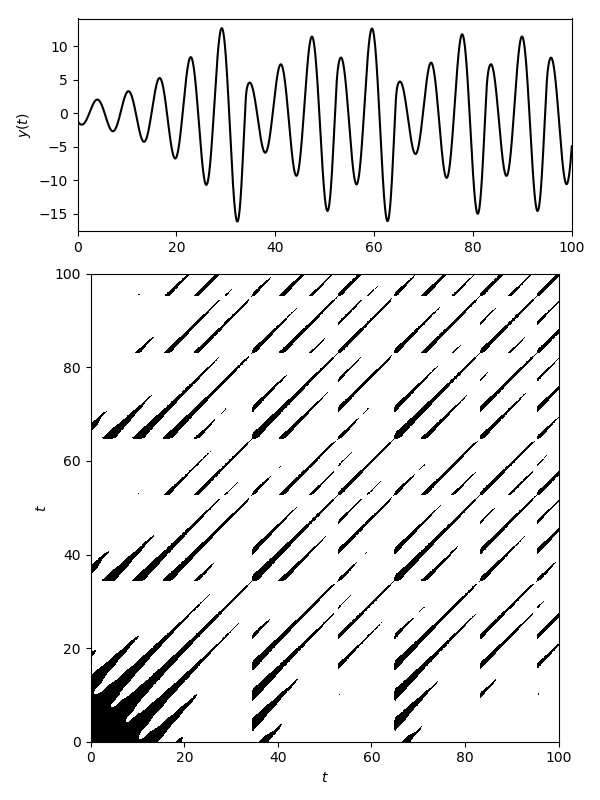
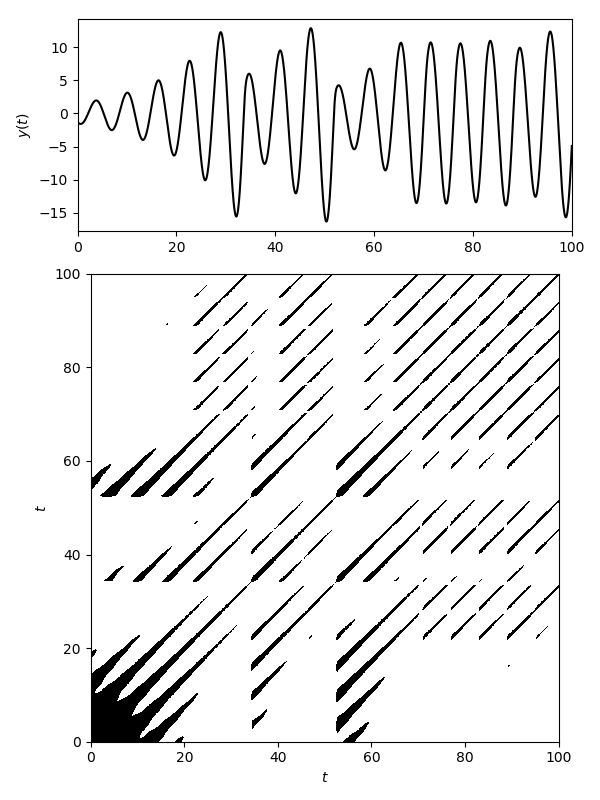
build based on 722a721

diff --git a/dev/rqa/rplots/index.html b/dev/rqa/rplots/index.html
@@ -725,8 +725,8 @@ R(i, j) = \begin{cases}
 \end{cases}
 </script>
 </div>
-<p>where <span><span class="MathJax_Preview">d(x[i], y[j])</span><script type="math/tex">d(x[i], y[j])</script></span> stands for the <em>distance</em> between trajectory <span><span class="MathJax_Preview">x</span><script type="math/tex">x</script></span> at point <span><span class="MathJax_Preview">i</span><script type="math/tex">i</script></span> and trajectory <span><span class="MathJax_Preview">y</span><script type="math/tex">y</script></span> at point <span><span class="MathJax_Preview">j</span><script type="math/tex">j</script></span>. If <span><span class="MathJax_Preview">x\equiv y</span><script type="math/tex">x\equiv y</script></span> then <span><span class="MathJax_Preview">R</span><script type="math/tex">R</script></span> is called recurrence matrix, otherwise it is called cross-recurrence matrix. There is also the joint-recurrence variant, see below.</p>
-<p>With <code>RecurrenceAnalysis</code> you can use the following functions to access these matrices</p>
+<p>where <span><span class="MathJax_Preview">d(x[i], y[j])</span><script type="math/tex">d(x[i], y[j])</script></span> stands for the <em>distance</em> between trajectory <span><span class="MathJax_Preview">x</span><script type="math/tex">x</script></span> at point <span><span class="MathJax_Preview">i</span><script type="math/tex">i</script></span> and trajectory <span><span class="MathJax_Preview">y</span><script type="math/tex">y</script></span> at point <span><span class="MathJax_Preview">j</span><script type="math/tex">j</script></span>. Both <span><span class="MathJax_Preview">x, y</span><script type="math/tex">x, y</script></span> can be single timeseries, full trajectories or embedded timeseries (which are also trajectories).</p>
+<p>If <span><span class="MathJax_Preview">x\equiv y</span><script type="math/tex">x\equiv y</script></span> then <span><span class="MathJax_Preview">R</span><script type="math/tex">R</script></span> is called recurrence matrix, otherwise it is called cross-recurrence matrix. There is also the joint-recurrence variant, see below. With <code>RecurrenceAnalysis</code> you can use the following functions to access these matrices</p>
 <p><a id='RecurrenceAnalysis.RecurrenceMatrix' href='#RecurrenceAnalysis.RecurrenceMatrix'>#</a>
 <strong><code>RecurrenceAnalysis.RecurrenceMatrix</code></strong> &mdash; <em>Type</em>.</p>
 <div class="codehilite"><pre><span></span>RecurrenceMatrix(x, ε; kwargs...)
@@ -766,7 +766,7 @@ R(i, j) = \begin{cases}
 <p>See <a href="./#RecurrenceAnalysis.RecurrenceMatrix"><code>RecurrenceMatrix</code></a> for details, references and keywords. See also: <a href="./#RecurrenceAnalysis.CrossRecurrenceMatrix"><code>CrossRecurrenceMatrix</code></a>.</p>
 <p><a id='Plottable-Format-1'></a></p>
 <h2 id="plottable-format">Plottable Format</h2>
-<p>As you can tell from the above documentation strings, the recurrence matrices are stored as sparse matrices with boolean values. To create the recurrence plots, one needs to obtain a full form out of them.</p>
+<p>The recurrence matrices are internally stored as sparse matrices with boolean values. To create the recurrence plots, one needs to obtain a full form out of them.</p>
 <p>This functionality is supported by the following function:</p>
 <p><a id='RecurrenceAnalysis.recurrenceplot' href='#RecurrenceAnalysis.recurrenceplot'>#</a>
 <strong><code>RecurrenceAnalysis.recurrenceplot</code></strong> &mdash; <em>Function</em>.</p>
@@ -791,16 +791,16 @@ R(i, j) = \begin{cases}
 
 
 <div class="codehilite"><pre><span></span>2001×2001 Array{Float64,2}:
- 1.0  1.0  1.0  1.0  1.0  1.0  1.0  1.0  …  0.0  0.0  0.0  0.0  0.0  0.0  0.0
+ 1.0  1.0  1.0  1.0  1.0  1.0  1.0  1.0  …  1.0  0.0  0.0  0.0  0.0  0.0  0.0
  1.0  1.0  1.0  1.0  1.0  1.0  1.0  1.0     0.0  0.0  0.0  0.0  0.0  0.0  0.0
  1.0  1.0  1.0  1.0  1.0  1.0  1.0  1.0     0.0  0.0  0.0  0.0  0.0  0.0  0.0
  1.0  1.0  1.0  1.0  1.0  1.0  1.0  1.0     0.0  0.0  0.0  0.0  0.0  0.0  0.0
  1.0  1.0  1.0  1.0  1.0  1.0  1.0  1.0     0.0  0.0  0.0  0.0  0.0  0.0  0.0
  1.0  1.0  1.0  1.0  1.0  1.0  1.0  1.0  …  0.0  0.0  0.0  0.0  0.0  0.0  0.0
- 1.0  1.0  1.0  1.0  1.0  1.0  1.0  1.0     0.0  0.0  0.0  0.0  0.0  0.0  0.0
- 1.0  1.0  1.0  1.0  1.0  1.0  1.0  1.0     0.0  0.0  0.0  0.0  0.0  0.0  0.0
- 1.0  1.0  1.0  1.0  1.0  1.0  1.0  1.0     0.0  0.0  0.0  0.0  0.0  0.0  0.0
- 1.0  1.0  1.0  1.0  1.0  1.0  1.0  1.0     0.0  0.0  0.0  0.0  0.0  0.0  0.0
+ 1.0  1.0  1.0  1.0  1.0  1.0  1.0  1.0     0.0  0.0  0.0  0.0  0.0  0.0  1.0
+ 1.0  1.0  1.0  1.0  1.0  1.0  1.0  1.0     0.0  0.0  0.0  0.0  0.0  0.0  1.0
+ 1.0  1.0  1.0  1.0  1.0  1.0  1.0  1.0     0.0  0.0  0.0  0.0  0.0  1.0  1.0
+ 1.0  1.0  1.0  1.0  1.0  1.0  1.0  1.0     0.0  0.0  0.0  0.0  1.0  1.0  1.0
  ⋮                        ⋮              ⋱       ⋮                        ⋮
  0.0  0.0  0.0  0.0  0.0  0.0  0.0  0.0     1.0  1.0  1.0  1.0  1.0  1.0  1.0
  0.0  0.0  0.0  0.0  0.0  0.0  0.0  0.0     1.0  1.0  1.0  1.0  1.0  1.0  1.0
@@ -825,9 +825,26 @@ R(i, j) = \begin{cases}
 
 
 <p><img alt="" src="../rmatrix.png" /></p>
+<p>and here is exactly the same process, but using the embedded trajectory instead</p>
+<div class="codehilite"><pre><span></span><span class="n">y</span> <span class="o">=</span> <span class="n">tr</span><span class="p">[</span><span class="o">:</span><span class="p">,</span> <span class="mi">2</span><span class="p">]</span>
+<span class="n">τ</span> <span class="o">=</span> <span class="n">estimate_delay</span><span class="p">(</span><span class="n">y</span><span class="p">,</span> <span class="s">&quot;first_zero&quot;</span><span class="p">)</span>
+<span class="n">m</span> <span class="o">=</span> <span class="n">reconstruct</span><span class="p">(</span><span class="n">y</span><span class="p">,</span> <span class="mi">2</span><span class="p">,</span> <span class="n">τ</span><span class="p">)</span>
+<span class="n">R</span> <span class="o">=</span> <span class="n">RecurrenceMatrix</span><span class="p">(</span><span class="n">m</span><span class="p">,</span> <span class="mf">5.0</span><span class="p">;</span> <span class="n">metric</span> <span class="o">=</span> <span class="s">&quot;euclidean&quot;</span><span class="p">)</span>
+<span class="n">Rp</span> <span class="o">=</span> <span class="n">recurrenceplot</span><span class="p">(</span><span class="n">R</span><span class="p">)</span>
+<span class="n">figure</span><span class="p">(</span><span class="n">figsize</span> <span class="o">=</span> <span class="p">(</span><span class="mi">6</span><span class="p">,</span> <span class="mi">8</span><span class="p">));</span> <span class="n">ax1</span> <span class="o">=</span> <span class="n">subplot2grid</span><span class="p">((</span><span class="mi">3</span><span class="p">,</span><span class="mi">1</span><span class="p">),</span> <span class="p">(</span><span class="mi">0</span><span class="p">,</span><span class="mi">0</span><span class="p">))</span>
+<span class="n">plot</span><span class="p">(</span><span class="mi">0</span><span class="o">:</span><span class="n">dt</span><span class="o">:</span><span class="n">N</span><span class="o">*</span><span class="n">dt</span><span class="p">,</span> <span class="n">tr</span><span class="p">[</span><span class="o">:</span><span class="p">,</span> <span class="mi">2</span><span class="p">],</span> <span class="s">&quot;k&quot;</span><span class="p">);</span> <span class="n">xlim</span><span class="p">(</span><span class="mi">0</span><span class="p">,</span> <span class="n">N</span><span class="o">*</span><span class="n">dt</span><span class="p">);</span> <span class="n">ylabel</span><span class="p">(</span><span class="s">&quot;</span><span class="se">\$</span><span class="s">y(t)</span><span class="se">\$</span><span class="s">&quot;</span><span class="p">)</span>
+<span class="n">ax2</span> <span class="o">=</span> <span class="n">subplot2grid</span><span class="p">((</span><span class="mi">3</span><span class="p">,</span><span class="mi">1</span><span class="p">),</span> <span class="p">(</span><span class="mi">1</span><span class="p">,</span> <span class="mi">0</span><span class="p">),</span> <span class="n">rowspan</span> <span class="o">=</span> <span class="mi">2</span><span class="p">)</span>
+<span class="n">imshow</span><span class="p">(</span><span class="n">Rp</span><span class="p">,</span> <span class="n">cmap</span> <span class="o">=</span> <span class="s">&quot;Greys_r&quot;</span><span class="p">,</span> <span class="n">extent</span> <span class="o">=</span> <span class="p">(</span><span class="mi">0</span><span class="p">,</span> <span class="n">N</span><span class="o">*</span><span class="n">dt</span><span class="p">,</span> <span class="mi">0</span><span class="p">,</span> <span class="n">N</span><span class="o">*</span><span class="n">dt</span><span class="p">))</span>
+<span class="n">xlabel</span><span class="p">(</span><span class="s">&quot;</span><span class="se">\$</span><span class="s">t</span><span class="se">\$</span><span class="s">&quot;</span><span class="p">);</span> <span class="n">ylabel</span><span class="p">(</span><span class="s">&quot;</span><span class="se">\$</span><span class="s">t</span><span class="se">\$</span><span class="s">&quot;</span><span class="p">);</span> <span class="n">tight_layout</span><span class="p">()</span>
+<span class="n">subplots_adjust</span><span class="p">(</span><span class="n">hspace</span> <span class="o">=</span> <span class="mf">0.2</span><span class="p">)</span>
+</pre></div>
+
+
+<p><img alt="" src="../rmatrix2.png" /></p>
+<p>which justifies why recurrence plots are so fitting to be used in embedded timeseries.</p>
 <p><a id='Distances-1'></a></p>
 <h2 id="distances">Distances</h2>
-<p>The distance function used in <a href="./#RecurrenceAnalysis.RecurrenceMatrix"><code>RecurrenceMatrix</code></a> and co. can be specified either as a string or as a <code>Metric</code> instance from <a href="https://github.com/JuliaStats/Distances.jl"><code>Distances</code></a>. In addition, the following function returns a matrix with the cross-distances across all points in one or two trajectories:</p>
+<p>The distance function used in <a href="./#RecurrenceAnalysis.RecurrenceMatrix"><code>RecurrenceMatrix</code></a> and co. can be specified either as a string or as any <code>Metric</code> instance from <a href="https://github.com/JuliaStats/Distances.jl"><code>Distances</code></a>. In addition, the following function returns a matrix with the cross-distances across all points in one or two trajectories:</p>
 <p><a id='RecurrenceAnalysis.distancematrix' href='#RecurrenceAnalysis.distancematrix'>#</a>
 <strong><code>RecurrenceAnalysis.distancematrix</code></strong> &mdash; <em>Function</em>.</p>
 <div class="codehilite"><pre><span></span>distancematrix(x [, y = x], metric = Chebyshev())

diff --git a/dev/embedding/reconstruction/index.html b/dev/embedding/reconstruction/index.html
@@ -710,26 +710,26 @@
 
 
 <div class="codehilite"><pre><span></span>9-dimensional Dataset{Float64} with 996 points
- 0.184894  0.775683   0.437683   0.746951  …  0.251494   0.743369   0.262955
- 0.624463  0.621954   0.618011   0.753735     0.1842     0.500498   0.190554
- 0.746951  0.785923   0.661987   0.251494     0.659542   0.126216   0.931786
- 0.753735  0.665221   0.0774456  0.1842       0.949387   0.0652053  0.939865
- 0.251494  0.743369   0.262955   0.659542     0.634043   0.914996   0.670343
- 0.1842    0.500498   0.190554   0.949387  …  0.168123   0.926131   0.499171
- 0.659542  0.126216   0.931786   0.634043     0.415501   0.740512   0.296224
- 0.949387  0.0652053  0.939865   0.168123     0.120679   0.24209    0.541838
- 0.634043  0.914996   0.670343   0.415501     0.632629   0.645431   0.773185
- 0.168123  0.926131   0.499171   0.120679     0.382223   0.621654   0.0601672
- ⋮                                         ⋱
- 0.598237  0.697683   0.275433   0.222775     0.415897   0.0229007  0.542378
- 0.337285  0.566719   0.400423   0.464102     0.334164   0.0412198  0.473756
- 0.222775  0.569619   0.720986   0.415897     0.213699   0.0311036  0.319126
- 0.464102  0.487369   0.655068   0.334164     0.874889   0.507286   0.710368
- 0.415897  0.0229007  0.542378   0.213699  …  0.205604   0.813639   0.101515
- 0.334164  0.0412198  0.473756   0.874889     0.742464   0.98901    0.704362
- 0.213699  0.0311036  0.319126   0.205604     0.892289   0.41344    0.538948
- 0.874889  0.507286   0.710368   0.742464     0.0922324  0.135041   0.719349
- 0.205604  0.813639   0.101515   0.892289     0.249874   0.271893   0.237052
+ 0.991619   0.778529   0.509202   …  0.688088   0.502471   0.300539
+ 0.745392   0.42188    0.601016      0.861163   0.759928   0.1012
+ 0.0550224  0.753662   0.49837       0.0494118  0.892882   0.172964
+ 0.973156   0.827106   0.452927      0.900837   0.779104   0.277219
+ 0.688088   0.502471   0.300539      0.967273   0.651512   0.521254
+ 0.861163   0.759928   0.1012     …  0.63055    0.68953    0.0191881
+ 0.0494118  0.892882   0.172964      0.147753   0.307253   0.0947753
+ 0.900837   0.779104   0.277219      0.459754   0.180478   0.324638
+ 0.967273   0.651512   0.521254      0.477389   0.572033   0.740142
+ 0.63055    0.68953    0.0191881     0.152207   0.116349   0.172797
+ ⋮                                ⋱
+ 0.133277   0.655235   0.488554      0.609794   0.217738   0.227789
+ 0.884001   0.982842   0.387903      0.41977    0.588963   0.901189
+ 0.449793   0.527346   0.16078       0.868824   0.548097   0.42887
+ 0.699899   0.723577   0.794865      0.400822   0.0656691  0.822683
+ 0.609794   0.217738   0.227789   …  0.389658   0.396733   0.99307
+ 0.41977    0.588963   0.901189      0.416852   0.0644336  0.73831
+ 0.868824   0.548097   0.42887       0.737518   0.382678   0.672367
+ 0.400822   0.0656691  0.822683      0.0196545  0.940561   0.61003
+ 0.389658   0.396733   0.99307       0.957337   0.474455   0.710818
 </pre></div>
 
 

diff --git a/dev/advanced/index.html b/dev/advanced/index.html
@@ -928,27 +928,27 @@
 </pre></div>
 
 
-<div class="codehilite"><pre><span></span>18277-element Array{Float64,1}:
-  1.4588034003994675e-9
-  1.4521756976666357e-9
-  1.479425167887208e-9
-  1.5299899966927202e-9
-  1.5973755961521847e-9
-  1.677404452174968e-9
-  1.7674339840870021e-9
-  1.86849320778365e-9
-  1.974110025138388e-9
-  2.0848219211319116e-9
+<div class="codehilite"><pre><span></span>18373-element Array{Float64,1}:
+  2.380064493843197e-9
+  2.382138677950949e-9
+  2.3933832310673037e-9
+  2.4147459592560023e-9
+  2.4430346888545372e-9
+  2.478297803264406e-9
+  2.5205332585366338e-9
+  2.5680952435707006e-9
+  2.621595597276528e-9
+  2.6814037074281516e-9
   ⋮
- 22.27855742705667
- 22.68596111120875
- 23.109749220592626
- 23.54390202216503
- 23.989045555818326
- 24.445847279045193
- 24.916023350181234
- 25.385945931134543
- 25.86178838408087
+ 25.839995477243566
+ 26.74738267540387
+ 27.67912906547535
+ 28.654112162661566
+ 29.64580130410667
+ 30.64201718491641
+ 31.66248327592508
+ 32.660752672256386
+ 33.66331940752133
 </pre></div>
 
 

diff --git a/dev/chaos/lyapunovs/index.html b/dev/chaos/lyapunovs/index.html
@@ -727,9 +727,9 @@
 
 
 <div class="codehilite"><pre><span></span>3-element Array{Float64,1}:
-  0.43234793284424106
-  0.3722753995038502
- -3.296995626639404
+  0.43245602563793734
+  0.3721683216973077
+ -3.2969966416265573
 </pre></div>
 
 
@@ -740,9 +740,9 @@
 
 
 <div class="codehilite"><pre><span></span>3-element Array{Float64,1}:
-   0.9946036019826698
-  -0.0021348451704165197
- -14.659135423383091
+   0.9849954962267847
+   0.00020965750318686842
+ -14.65187182030095
 </pre></div>
 
 

diff --git a/dev/chaos/entropies/index.html b/dev/chaos/entropies/index.html
@@ -991,7 +991,7 @@ R_\alpha(p) = \frac{1}{1-\alpha} \log \left(\sum_i p[i]^\alpha\right)
 </pre></div>
 
 
-<div class="codehilite"><pre><span></span>1.25870821871652
+<div class="codehilite"><pre><span></span>1.2587039005189242
 </pre></div>
                 
                   
